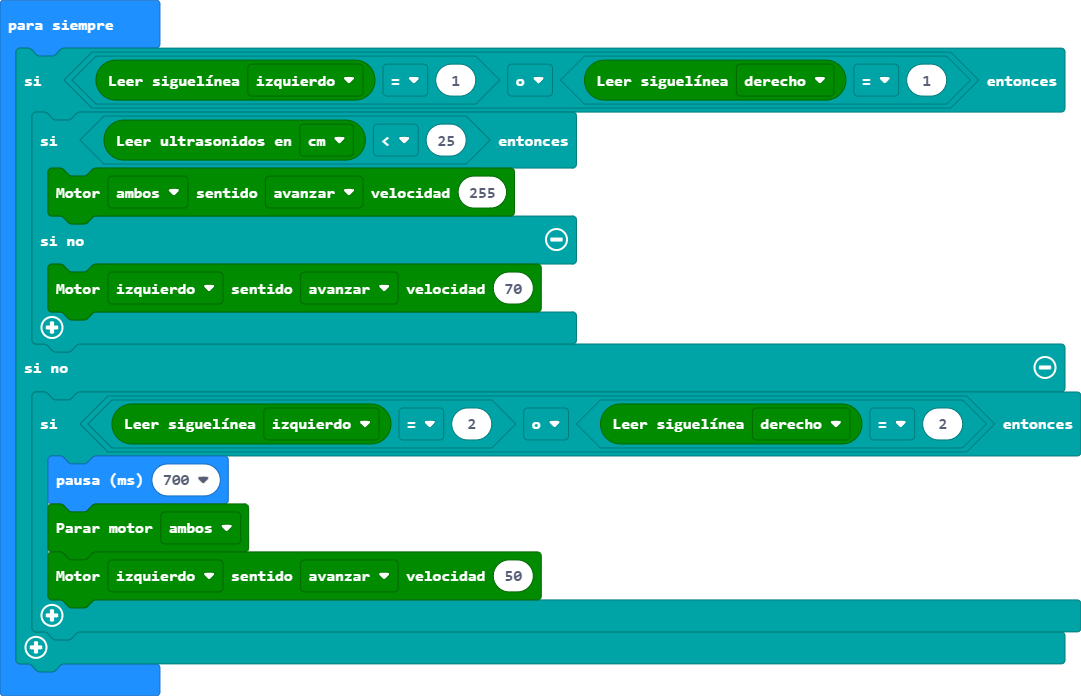
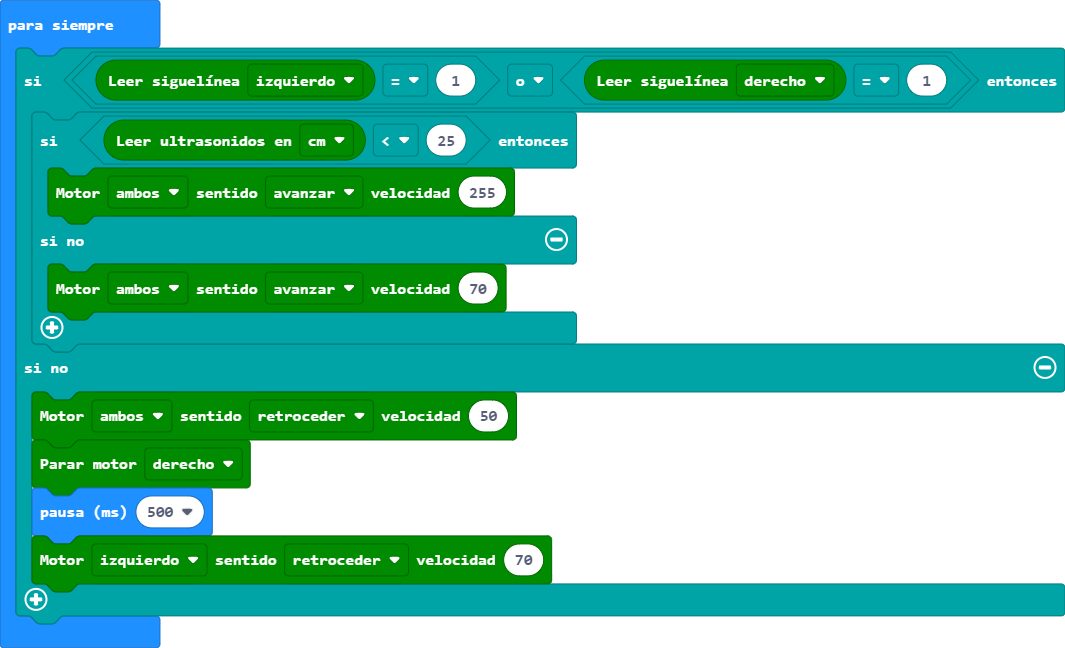
Actualizar main.blocks, main.ts

diff --git a/main.ts b/main.ts
@@ -3,13 +3,12 @@ basic.forever(function () {
         if (maqueen.Ultrasonic(PingUnit.Centimeters) < 25) {
             maqueen.motorRun(maqueen.Motors.All, maqueen.Dir.CW, 255)
         } else {
-            maqueen.motorRun(maqueen.Motors.M1, maqueen.Dir.CW, 70)
+            maqueen.motorRun(maqueen.Motors.All, maqueen.Dir.CW, 70)
         }
     } else {
-        if (maqueen.readPatrol(maqueen.Patrol.PatrolLeft) == 2 || maqueen.readPatrol(maqueen.Patrol.PatrolRight) == 2) {
-            basic.pause(700)
-            maqueen.motorStop(maqueen.Motors.All)
-            maqueen.motorRun(maqueen.Motors.M1, maqueen.Dir.CW, 50)
-        }
+        maqueen.motorRun(maqueen.Motors.All, maqueen.Dir.CCW, 50)
+        maqueen.motorStop(maqueen.Motors.M2)
+        basic.pause(500)
+        maqueen.motorRun(maqueen.Motors.M1, maqueen.Dir.CCW, 70)
     }
 })
